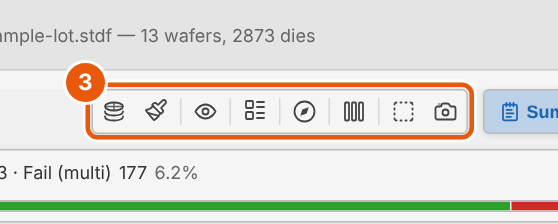
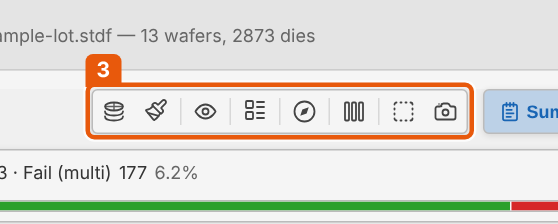
Shorten the welcome recap and keep callout labels clear
Session 00 recaps wafer maps, bins and yield on one slide instead of four, and neither session states a duration. Callout labels are now flat tabs joined to their box, placed on whichever edge covers no other callout, no other label and the least of the app's own text, and a shot fails when a label has nowhere to go. Frames are cut to the part of an element its ancestors leave visible, and can span a group of elements with the new through option.

diff --git a/docs/training/theme/tsmap.css b/docs/training/theme/tsmap.css
@@ -88,20 +88,20 @@ code {
   padding: 0.05em 0.3em;
 }
 
-/* A numbered marker matching the callout badges in the screenshots. */
+/* A numbered marker matching the callout labels in the screenshots: a flat tab, not a button. */
 .badge {
   display: inline-block;
-  width: 1.35em;
-  height: 1.35em;
-  line-height: 1.35em;
-  border-radius: 50%;
+  min-width: 1.1em;
+  padding: 0.05em 0.35em;
+  border-radius: 0.2em;
   background: var(--callout);
   color: #fff;
   font-weight: 700;
-  font-size: 0.8em;
+  font-size: 0.75em;
+  line-height: 1.3;
   text-align: center;
-  vertical-align: 0.08em;
-  margin-right: 0.3em;
+  vertical-align: 0.12em;
+  margin-right: 0.35em;
 }
 
 /* The screenshot paragraph takes whatever height the slide has left. */

diff --git a/docs/training/00-welcome.md b/docs/training/00-welcome.md
@@ -12,7 +12,7 @@ footer: tsmap training · 00 Welcome
 
 # Welcome to tsmap
 
-## Session 00 · about 15 minutes
+## Session 00
 
 tsmap training · a self-paced course
 
@@ -20,51 +20,22 @@ tsmap training · a self-paced course
 
 # In this session
 
-- The four words you need: wafer, die, wafer map, yield
+- A quick recap of the terms tsmap uses
 - What tsmap is, and the two ways to run it
 - A tour of the screen, one area at a time
 
 ---
 
-<!-- _class: divider -->
-
-# The words you need
-
-Four ideas, one slide each
-
----
-
-# Wafer
-
-A thin disc of silicon on which many identical chips are made at once.
-
-![One wafer from the sample lot, drawn as a map](images/00/wafer-card.png)
-
----
-
-# Die
-
-One chip on the wafer. Each square on a wafer map is one die.
-
-![The same wafer: every square is one die](images/00/wafer-card.png)
-
----
-
-# Wafer map
-
-A picture of the wafer with one square per die, coloured by its test result or a measured value.
-
-![The sample lot: thirteen wafer maps side by side](images/00/layout.png)
-
----
-
+<!-- _class: split -->
 <!-- covers: Bin legend entry -->
 
-# Yield
+# A quick recap
 
-The share of dies that pass. Here 2,271 of 2,873 dies pass: a yield of 79.0%.
+- **Wafer map**: one square per die, coloured by bin or by a test value
+- **Bin**: the category the tester put a die in; here bin 1 is Pass
+- **Yield**: the share of dies that pass, 79.0% for this lot
 
-![The bin legend, with the lot's yield on the left](images/00/yield.png)
+![One wafer of the sample lot: each square is one die, green for bin 1 (Pass)](images/00/wafer-card.png)
 
 ---
 
@@ -216,7 +187,7 @@ The **?** button opens the Help menu. **User guide** opens the full guide.
 
 # Eleven short sessions
 
-- Each session is a few minutes of slides, then a lab
+- Each session is a short set of slides, then a lab
 - Every lab runs in the web app, with the sample data
 - For the detail behind a slide, follow the link to the [user guide](../user-guide.md)
 

diff --git a/docs/training/README.md b/docs/training/README.md
@@ -97,13 +97,17 @@ footer: tsmap training · 01 Getting data in
 ---
 ```
 
-Every deck has, in order: a `title` slide, **In this session** (up to three objectives), sections
+Every deck has, in order: a `title` slide (the session number, no time estimate), **In this session** (up to three objectives), sections
 that each open with a `divider` slide, a `lab` slide headed **Try it yourself**, **Recap**, and a
 `next` slide. Set a slide's class with `<!-- _class: divider -->`.
 
 - **One idea per slide**, usually one screenshot, and at most about three short lines.
 - The `split` class puts up to three bullets beside a screenshot.
 - Refer to a numbered callout with `<span class="badge">2</span>`.
+- Callout labels place themselves on a free corner of their box; a shot fails when a label has
+  nowhere to go, so overlapping labels never reach a slide.
+- Assume the reader is an engineer who knows wafers, dies, bins and yield: recap terms in a line,
+  don't teach them.
 - Give each image alt text that says what it shows.
 - Headings must differ within a deck: the docs build turns each into an anchor.
 - Link to another session as `01-getting-data-in.md` and to a docs page as
@@ -144,7 +148,7 @@ Not wired into `npm run verify` yet: it fails until every session is written.
 
 | # | Session | Status |
 | --- | --- | --- |
-| 00 | Welcome: wafers, dies and yield; what tsmap is; a tour of the screen | Written |
+| 00 | Welcome: a quick recap of the terms; what tsmap is; a tour of the screen | Written |
 | 01 | Getting data in: formats, opening and adding files, folder scan, test selector, column mapping, theme, log | Written |
 | 02 | Reading a map and the toolbar | Planned |
 | 03 | Findings | Planned |

diff --git a/docs/training/01-getting-data-in.md b/docs/training/01-getting-data-in.md
@@ -12,7 +12,7 @@ footer: tsmap training · 01 Getting data in
 
 # Getting data in
 
-## Session 01 · about 25 minutes
+## Session 01
 
 tsmap training · a self-paced course
 
